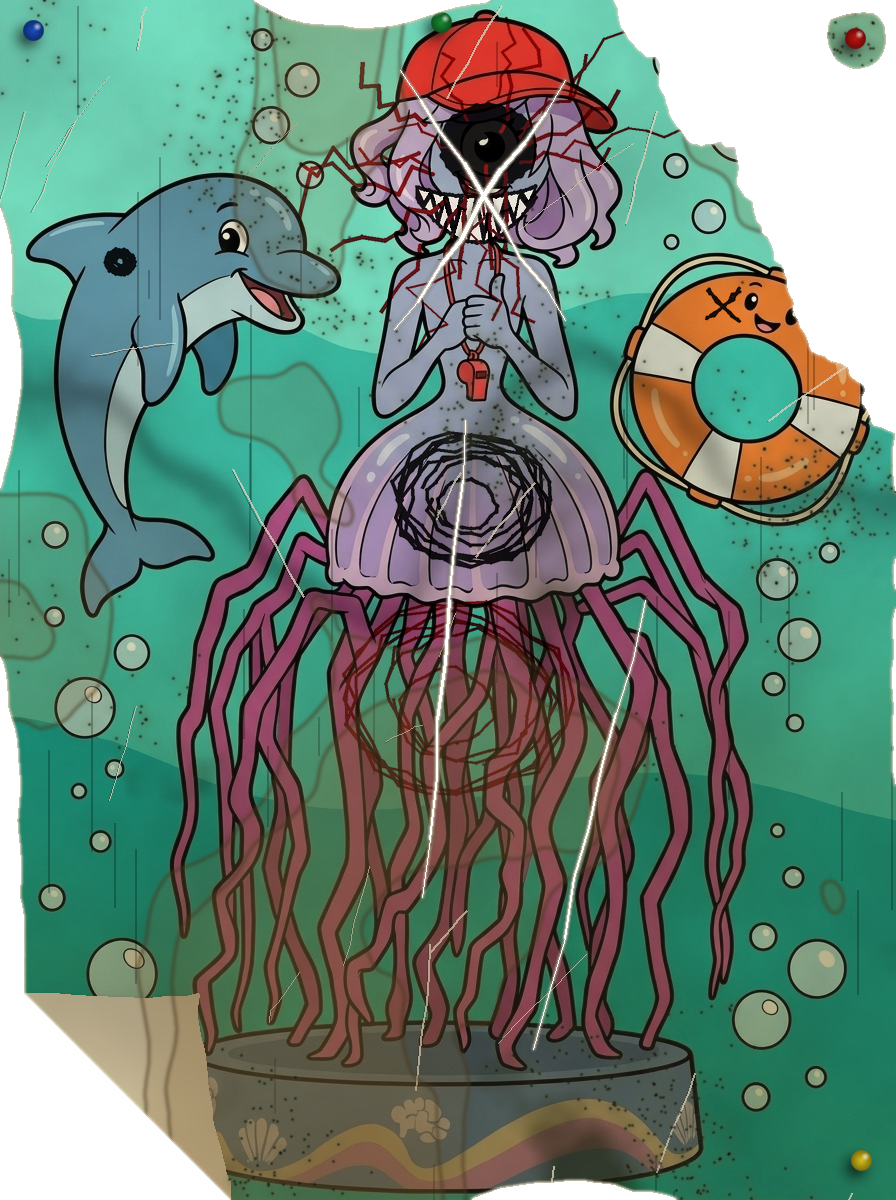
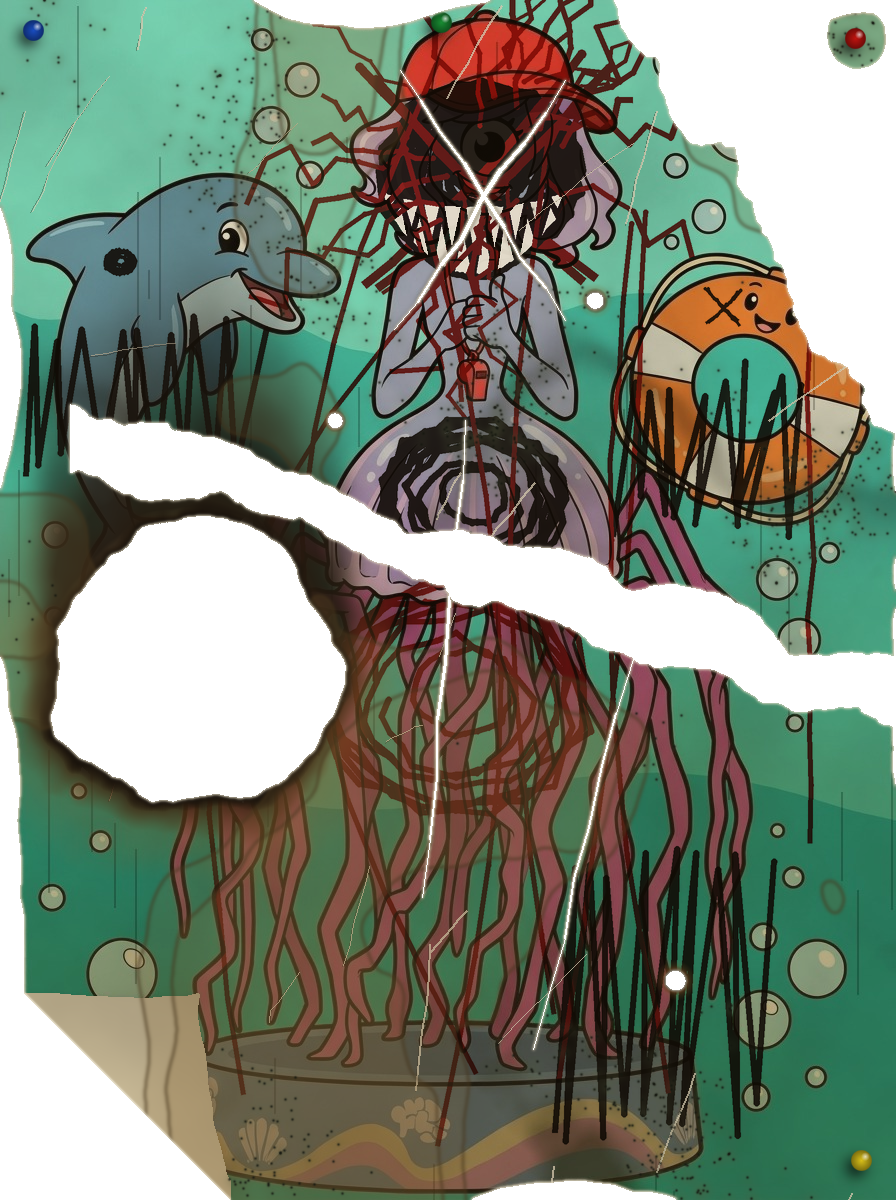
Poster del bagnino rovinato di più (richiesta del coordinatore): bruciatura col buco carbonizzato, strappo grosso che lo attraversa, faccia annerita, segni spessi leggibili dalla porta
Claude-Session: https://claude.ai/code/session_01QZhvJrSvMNdteHdHVGug5a

diff --git a/assets_src/ambienti_interni/poster/rovina.py b/assets_src/ambienti_interni/poster/rovina.py
@@ -427,10 +427,15 @@ def bagnino():
     p = Pennarello(W, H, 71)
     nero, rosso = (12, 10, 12), (150, 12, 14)
     ex, ey, er = 408, 146, 31
-    p.spirale(ex, ey, er * 1.4, 7, nero, giri=30)
-    p.spirale(ex + 3, ey - 2, er * 0.9, 5, nero, giri=14)
-    p.denti(420, 192, 120, 46, 8, nero, (30, 4, 6), (238, 232, 220), 3.5, arco=0.6)
-    p.nervose(ex, ey + 20, 130, 18, 4.2, rosso, lung=(0.5, 1.1))
+    # (più rovinato, 25 ottobre: il coordinatore e l'utente lo vogliono il più rovinato dei quattro, leggibile anche
+    # dalla porta dello stanzino: tratti spessi, faccia annerita, bruciatura e strappo grosso)
+    # la faccia annerita tutta, poi l'occhio a spirale fitta e una croce rossa sopra
+    p.spirale(ex + 6, ey + 25, 95, 9, nero, giri=22)
+    p.spirale(ex, ey, er * 1.5, 11, nero, giri=36)
+    p.spirale(ex + 3, ey - 2, er * 0.9, 9, nero, giri=18)
+    p.croce(ex + 6, ey + 20, 110, 9, rosso, volte=2)
+    p.denti(422, 196, 190, 74, 9, nero, (90, 6, 10), (240, 236, 224), 6, arco=0.6)
+    p.nervose(ex, ey + 20, 170, 28, 6, rosso, lung=(0.5, 1.2))
     # rosso che cola dagli occhi giù sulle guance
     for dx in (-18, 2, 20):
         p.linea((ex + dx, ey + 20), (ex + dx * 1.3 + p.rng.normal(0, 4), ey + 110 + p.rng.normal(0, 20)), 4, rosso, n=14, trem=1.2)
@@ -438,8 +443,20 @@ def bagnino():
     p.spirale(776, 262, 14, 3, nero, giri=10)
     p.croce(172, 306, 16, 3, nero)
     # nuvola di scarabocchi rabbiosi sul busto e un'altra rossa sulla campana
-    p.spirale(425, 500, 75, 3.6, nero, giri=9)
-    p.spirale(440, 700, 110, 3.2, rosso, giri=7)
+    p.spirale(425, 500, 90, 7, nero, giri=10)
+    p.spirale(440, 700, 130, 6, rosso, giri=8)
+    # segni grossi su tutto il resto: zig-zag neri sul delfino e sul salvagente, graffi rossi lunghi sulle bolle
+    for (x0, y0, x1, y1) in ((640, 330, 860, 470), (90, 380, 260, 520), (120, 860, 330, 1120)):
+        zig = []
+        for i in range(9):
+            t = i / 8
+            zig += [(x0 + (x1 - x0) * t + p.rng.normal(0, 8), y0 + p.rng.normal(0, 10)),
+                    (x0 + (x1 - x0) * t + 20 + p.rng.normal(0, 8), y1 + p.rng.normal(0, 10))]
+        p.tratto(zig, 6, nero, trem=3)
+    for i in range(7):
+        x = p.rng.uniform(80, 820)
+        p.linea((x, p.rng.uniform(60, 300)), (x + p.rng.normal(0, 90), p.rng.uniform(800, 1150)), 5, rosso, n=12, trem=3,
+                curva=p.rng.normal(0, 0.08))
     a = p.applica(a, alfa)
     a = graffi(a, alfa, 25, 72, lung=(30, 150))
     # tagli di coltello in croce sul viso e lungo il corpo (fessure vere)
@@ -447,8 +464,21 @@ def bagnino():
     a, alfa = taglio(alfa, a, (495, 70), (330, 320), 3, 74)
     a, alfa = taglio(alfa, a, (430, 420), (470, 900), 3, 75)
     a, alfa = taglio(alfa, a, (250, 600), (360, 1050), 2, 76)
-    # angolo in alto a sinistra strappato via (resta il pezzetto sotto la puntina), in basso a destra ripiegato
     yy, xx = np.mgrid[0:H, 0:W].astype(np.float32)
+    # strappo grosso che attraversa il poster: una striscia mancante dal bordo sinistro quasi al destro (resta un ponte di
+    # carta a destra, così il pezzo sopra è ancora unito). Le due puntine vere della bacheca (nella texture, capovolta nel
+    # gioco, verso (484, 780) e (591, 984)) restano su carta intera.
+    ns = blob((H, W), 82, 14)
+    linea_y = 700 - xx * 0.32 + (ns - 0.5) * 50
+    larga = 14 + 30 * blob((H, W), 83, 6)
+    striscia = (np.abs(yy - linea_y) < larga) & (xx < W - 70)
+    alfa = alfa * ~striscia
+    # bruciatura vera con il buco dai bordi carbonizzati, sotto il delfino (la fuliggine sale sul delfino)
+    dist = np.hypot((xx - 700) / 150, (yy - 640) / 175)
+    campo = 1 - dist * 0.7 + (blob((H, W), 84, 7) - 0.5) * 0.45
+    a, alfa = bruciatura(a, alfa, campo, 0.42, 0.16, 85, fuliggine=1.4, verso=(0.05, -1))
+    a, alfa = buchi_sigaretta(a, alfa, [(300, 300), (560, 420), (220, 980)], [8, 7, 9], 86)
+    # angolo in alto a sinistra strappato via (resta il pezzetto sotto la puntina), in basso a destra ripiegato
     nb = blob((H, W), 77, 12)
     via = ((xx / W) + (yy / H) * 0.9 + (nb - 0.5) * 0.12) < 0.3
     resto = np.hypot(xx - 40, yy - 38) < 26 + (nb - 0.5) * 18   # il brandello sotto la puntina
